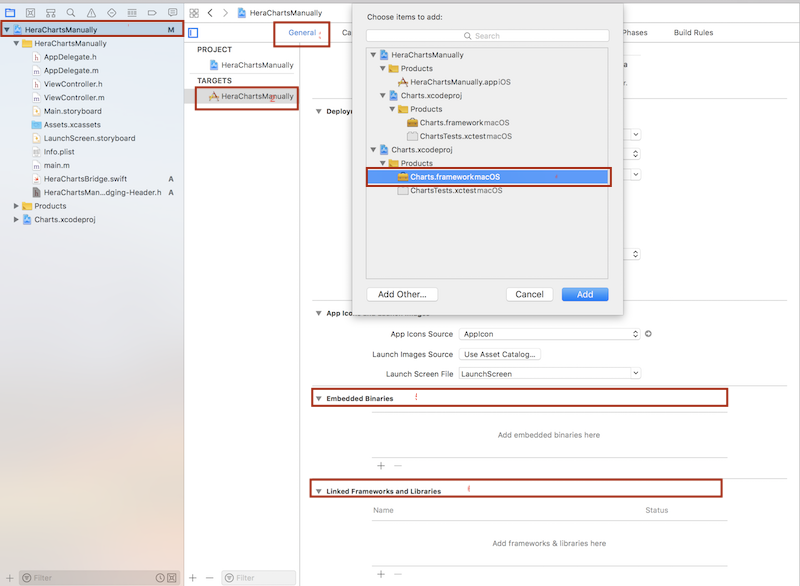
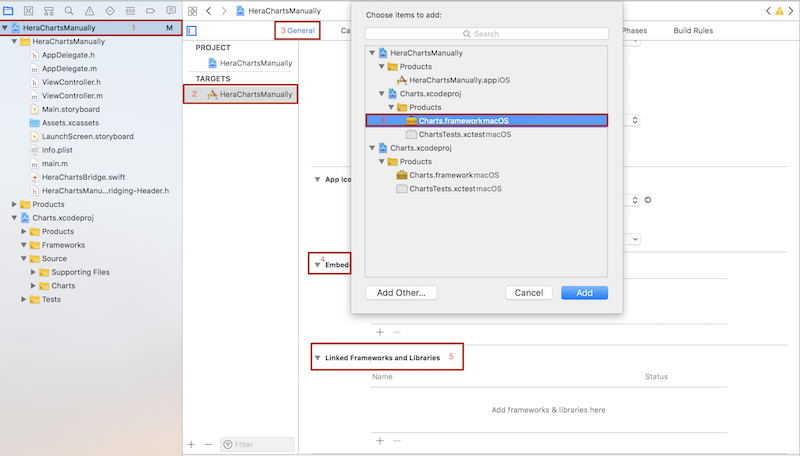
U

diff --git a/HeraChart/Charts/README.md b/HeraChart/Charts/README.md
@@ -65,11 +65,13 @@ end
 
 1、clone下源码，这里选择sourcetree
 
-2、切到v3.1.1提交节点，这里个人选择`6b730a03`节点，可以通过git status看看是不是打印：` HEAD detached at 6b730a03 `
+2、切到v3.1.1提交节点，这里个人选择`6b730a03`节点，可以通过git status看看是不是打印：` HEAD detached at 6b730a03 `，注：如果是通过git 方式clone下来需要去掉Charts的.git文件，在终端进入Charts工程目录，输入：` find . -name ".git" | xargs rm -Rf `
 
 3、去掉以下两个文件夹：ChartsDemo-iOS & ChartsDemo-macOS，并将Charts.xcodeproj拖入你的项目里
 
-- U can get my demo in this [way](https://github.com/Yangchengfeng/HepburnBook/tree/Charts_iOS_Cocoapods/HeraChart/Charts/HeraChartsManually)
+【注】如果觉得太麻烦了，可以将`https://github.com/Yangchengfeng/HepburnBook/tree/Charts_iOS_Manually_v2/HeraChart/Charts/HeraChartsManually/Charts`这个文件down下来加到项目
+
+- U can get my demo in this [way](https://github.com/Yangchengfeng/HepburnBook/tree/Charts_iOS_Manually_v2/HeraChart/Charts/HeraChartsManually)
 
 ### Bridge
 
